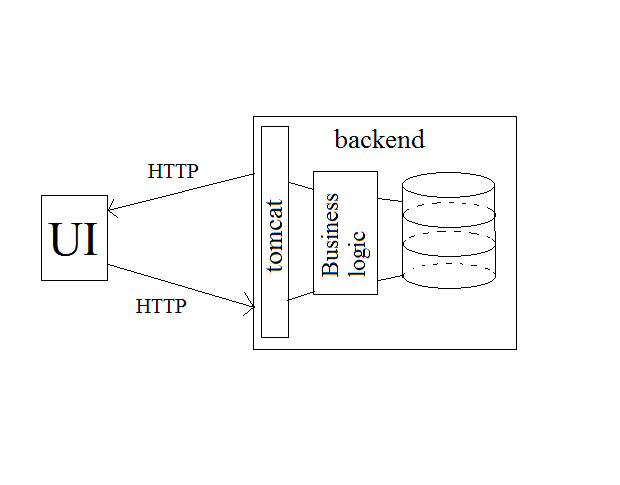
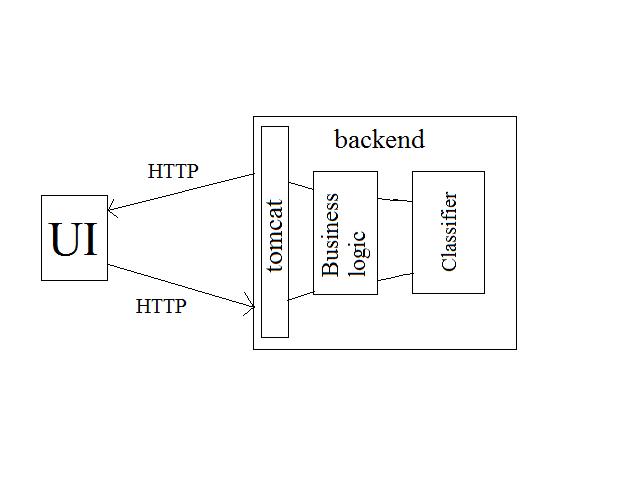
added some explanation

diff --git a/documentation/gi-service.html b/documentation/gi-service.html
@@ -11,6 +11,8 @@
         для более эффективного результата, необходим более большой отрывок. Рекомендуемая длина отрывка - минимум 5 слов.</p>
         <p>Поиск будет выполняться проверкой истинности нахождения фрагмента, введенного пользователем, в стихах, хранящихся в базе данных.
         Четкого алгоритма поиска пока представить не могу.</p>
+        <p>Также данный сервис позволит вывести имеющиеся в базе стихи по категориям - о природе, о любви и о Родине.
+        Т. е. сервис сможет классифицировать стихи по их тематике.</p>
     </div>
 </body>
 </html>
